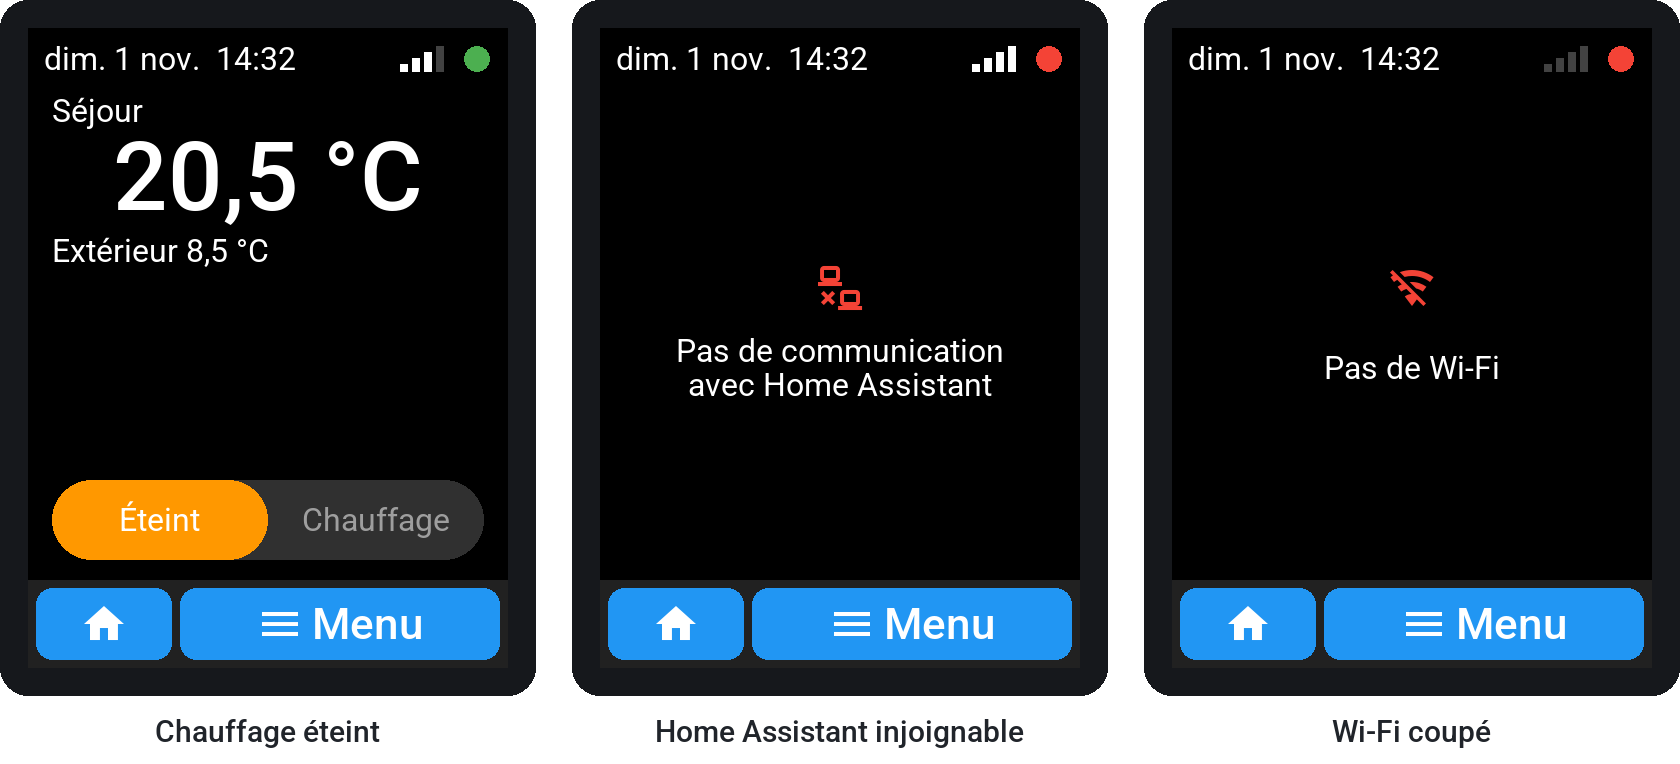
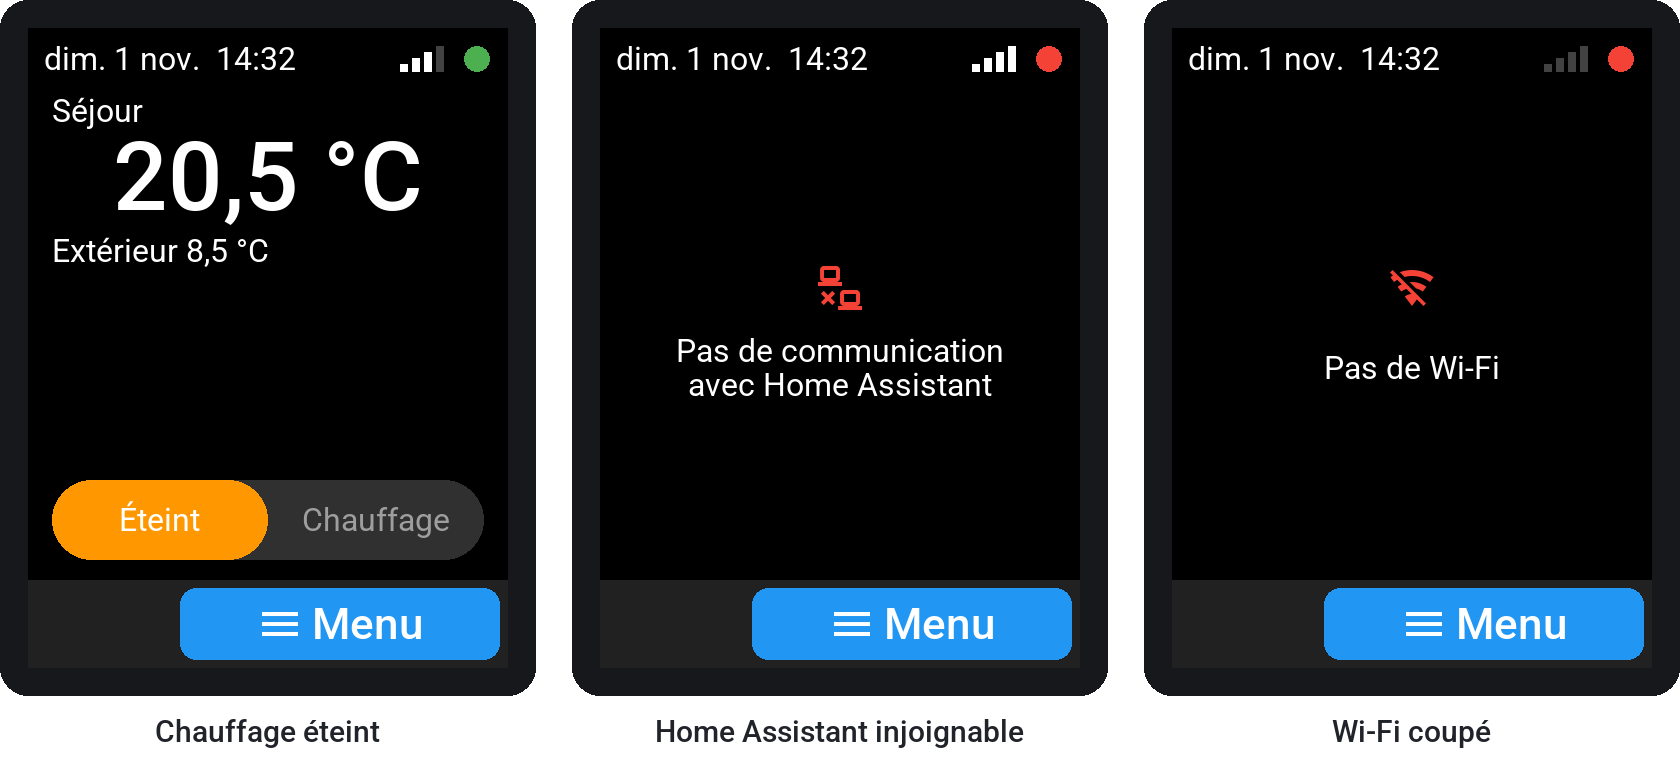
Documentation : page Reglages dans le guide d'utilisation et l'architecture, maquettes Menu, Reglages et barre de navigation a jour

Changed region(s): [[0.681, 0.7526, 0.8048, 0.873], [0.3405, 0.7526, 0.4643, 0.873], [0.0, 0.7526, 0.1238, 0.873]]

diff --git a/tools/generer_images_doc.py b/tools/generer_images_doc.py
@@ -23,7 +23,7 @@ MDI = {
     "meteo": "\U000F0595", "planning": "\U000F00F0", "scenarios": "\U000F0D19", "menu": "\U000F035C",
     "info": "\U000F02FD", "soleil": "\U000F0599", "pluie": "\U000F0597", "nuage": "\U000F0590",
     "canape": "\U000F04B9", "depart": "\U000F0A48", "lune": "\U000F0594", "lumiere_eteinte": "\U000F0E4F",
-    "film": "\U000F0FCE", "reveil": "\U000F0020",
+    "film": "\U000F0FCE", "reveil": "\U000F0020", "reglages": "\U000F0493", "verrou": "\U000F033E",
 }
 
 
@@ -42,17 +42,20 @@ def police(taille, graisse=400):
 class Ecran:
     """Ecran de 240 x 320 du module, coordonnees en pixels du module."""
 
-    def __init__(self, barre=True):
+    def __init__(self, barre=True, maison=True, menu=True):
+        """Barre de navigation : maison masquee sur l'accueil, Menu sur le menu (D025)."""
         self.image = Image.new("RGB", (240 * S, 320 * S), "#000000")
         self.d = ImageDraw.Draw(self.image)
         self.reperes = []
         if barre:
             self.rect(0, 276, 240, 44, "#212121")
-            self.bouton(4, 280, 68, 36, BLEU)
-            self.icone("maison", 38, 298, 24)
-            self.bouton(76, 280, 160, 36, BLEU)
-            self.icone("menu", 126, 298, 24)
-            self.texte(170, 298, "Menu", BLANC, 22, 500, "mm")
+            if maison:
+                self.bouton(4, 280, 68, 36, BLEU)
+                self.icone("maison", 38, 298, 24)
+            if menu:
+                self.bouton(76, 280, 160, 36, BLEU)
+                self.icone("menu", 126, 298, 24)
+                self.texte(170, 298, "Menu", BLANC, 22, 500, "mm")
 
     def rect(self, x, y, l, h, couleur, rayon=0, bord=None, epaisseur=0):
         boite = [x * S, y * S, (x + l) * S - 1, (y + h) * S - 1]
@@ -125,7 +128,7 @@ def glissiere(e, chauffage=True):
 
 
 def accueil():
-    e = Ecran()
+    e = Ecran(maison=False)
     bandeau(e)
     e.texte(12, 32, "Séjour")
     e.texte(120, 46, "20,5 °C", BLANC, 48, 500, "ma")
@@ -142,14 +145,14 @@ def accueil():
     e.texte(200, 196, "+", BLANC, 22, 500, "mm")
     glissiere(e)
     for numero, x, y in [(1, 148, 15), (2, 226, 62), (3, 180, 110), (4, 232, 146), (5, 76, 196),
-                         (6, 120, 246), (7, 38, 276), (8, 214, 276)]:
+                         (6, 120, 246), (7, 214, 276)]:
         e.repere(numero, x, y)
     e.finir("accueil.png")
     return e
 
 
 def accueil_eteint():
-    e = Ecran()
+    e = Ecran(maison=False)
     bandeau(e)
     e.texte(12, 32, "Séjour")
     e.texte(120, 46, "20,5 °C", BLANC, 48, 500, "ma")
@@ -159,7 +162,7 @@ def accueil_eteint():
 
 
 def accueil_hs(wifi):
-    e = Ecran()
+    e = Ecran(maison=False)
     e.texte(8, 6, "dim. 1 nov.  14:32")
     for x, y, h in [(186, 18, 4), (192, 15, 7), (198, 12, 10), (204, 9, 13)]:
         e.rect(x, y, 4, h, BLANC if wifi else INACTIF)
@@ -170,14 +173,61 @@ def accueil_hs(wifi):
 
 
 def menu():
-    e = Ecran()
-    tuiles = [("maison", "Accueil", 8, 8), ("meteo", "Météo", 124, 8), ("planning", "Planning", 8, 96),
-              ("scenarios", "Scénarios", 124, 96), ("info", "À propos", 8, 184)]
+    e = Ecran(menu=False)
+    tuiles = [("meteo", "Météo", 8, 8), ("planning", "Planning", 124, 8), ("scenarios", "Scénarios", 8, 96),
+              ("reglages", "Réglages", 124, 96), ("info", "À propos", 8, 184)]
     for nom, texte, x, y in tuiles:
         e.bouton(x, y, 108, 80)
         e.icone(nom, x + 54, y + 24, 24)
         e.texte(x + 54, y + 58, texte, BLANC, 16, 400, "mm")
     e.finir("menu.png")
+
+
+def interrupteur(e, y, libelle, actif, impose):
+    """Interrupteur de packages/pages/reglages.yaml : arret sur fond sombre borde."""
+    e.texte(12, y + 6, libelle)
+    if actif:
+        e.rect(172, y, 56, 30, "#546E7A" if impose else BLEU, 15)
+    else:
+        e.rect(172, y, 56, 30, GRIS_FONCE, 15, GRIS, 2)
+    e.rect(201 if actif else 175, y + 3, 24, 24, "#BDBDBD" if impose else BLANC, 12)
+    if impose:
+        e.icone("verrou", 152, y + 15, 24, GRIS)
+
+
+def curseur(e, y, libelle, valeur, minimum, impose):
+    """Curseur par pas de 5 et valeur affichee a droite."""
+    e.texte(12, y, libelle)
+    e.texte(228, y, f"{valeur} %", BLANC, 16, 400, "ra")
+    plein = round(196 * (valeur - minimum) / (100 - minimum))
+    couleur = "#546E7A" if impose else BLEU
+    e.rect(22, y + 30, 196, 10, "#123C5E", 5)
+    e.rect(22, y + 30, max(plein, 10), 10, couleur, 5)
+    e.rect(22 + plein - 10, y + 25, 20, 20, couleur, 10)
+    if impose:
+        e.icone("verrou", 162, y + 8, 24, GRIS)
+
+
+def reglages_ecran(alerte=True, impose_alerte=False):
+    e = Ecran()
+    e.texte(120, 8, "Réglages", BLANC, 22, 500, "ma")
+    interrupteur(e, 44, "LED", True, False)
+    curseur(e, 88, "Intensité LED", 20, 0, False)
+    interrupteur(e, 144, "Alerte LED", alerte, impose_alerte)
+    curseur(e, 188, "Intensité écran", 80, 20, False)
+    if impose_alerte:
+        e.icone("verrou", 68, 252, 24, GRIS)
+        e.texte(84, 252, "imposé par HA", GRIS, 16, 400, "lm")
+    return e
+
+
+def reglages():
+    e = reglages_ecran()
+    for numero, x, y in [(1, 140, 59), (2, 140, 96), (3, 140, 159), (4, 150, 196)]:
+        e.repere(numero, x, y)
+    e.finir("reglages.png")
+    cote_a_cote([encadrer(reglages_ecran(alerte=False)), encadrer(reglages_ecran(impose_alerte=True))],
+                "reglages_etats.png", ["Alerte LED arrêtée", "Alerte LED imposée par HA"])
 
 
 def meteo():
@@ -320,6 +370,7 @@ def main():
                  encadrer(scenarios_ecran("Pas de réponse de HA", ORANGE))],
                 "scenarios_etats.png", ["Envoi", "Accepté par HA", "Sans réponse"])
     apropos()
+    reglages()
     schema_scenario()
     formulaire()
     led()

diff --git a/tools/generer_schemas_architecture.py b/tools/generer_schemas_architecture.py
@@ -230,11 +230,11 @@ def veille():
 def lumiere():
     s = S(1100, 650)
     s.boite(30, 240, 220, 130, "LDR", "tension moyenne\nsur 5 s", JAUNE)
-    s.boite(330, 240, 270, 130, "ldr_obscurite", "(V - 0,09) / (0,20 - 0,09)\nbornée de 0 à 1, 10 s\nsans mesure : 0", BLEU, B_BLEU)
+    s.boite(330, 240, 270, 130, "ldr_obscurite", "(V - 0,09) / (0,20 - 0,09)\nbornée de 0 à 1, 2 s\nsans mesure : 0", BLEU, B_BLEU)
     s.fleche([(250, 305), (330, 305)])
-    s.boite(690, 60, 380, 170, "Rétroéclairage", "de 1,0 à 0,40 (gamma : environ 8 %)\nchange à partir de 5 points d'écart\ntransition de 2 s\nécran éteint : appliqué au réveil", ORANGE, B_ORANGE)
+    s.boite(690, 60, 380, 170, "Rétroéclairage", "de 1,0 à 0,40 × « Intensité écran »,\njamais sous 0,30 (D031)\nà partir de 5 points d'écart, en 1 s\nécran éteint : appliqué au réveil", ORANGE, B_ORANGE)
     s.fleche([(600, 280), (690, 170)], B_ORANGE)
-    s.boite(690, 280, 380, 150, "Plafond de la LED", "de 0,25 à 0,05\nrespiration de 6 s\nplancher 20 % du plafond", VIOLET, B_VIOLET)
+    s.boite(690, 280, 380, 150, "Plafond de la LED", "de 0,25 à 0,05 × « Intensité LED »\nrespiration de 6 s\néteinte au creux", VIOLET, B_VIOLET)
     s.fleche([(600, 320), (690, 350)], B_VIOLET)
     s.boite(690, 470, 380, 130, "LED en alerte", "rouge à pleine intensité, 500 ms\nne dépend pas de la LDR", ROUGE, B_ROUGE)
     s.boite(330, 470, 270, 130, "accueil_rafraichir", "couleur du préréglage,\nalerte si valeur douteuse", GRIS)

diff --git a/docs/UTILISATION.md b/docs/UTILISATION.md
@@ -10,7 +10,10 @@ peut légèrement différer.*
 ## L'essentiel
 
 - La barre du bas est présente sur toutes les pages : **la maison** ramène à
-  l'accueil (elle n'apparaît pas sur l'accueil), **Menu** ouvre la liste des pages.
+  l'accueil (elle n'apparaît pas sur l'accueil), **Menu** ouvre la liste des pages
+  (il n'apparaît pas sur le Menu).
+- La LED et la luminosité de l'écran se règlent depuis le panneau lui-même :
+  **Menu › Réglages**.
 - Après **1 minute sans toucher**, le panneau revient à l'accueil et l'écran
   s'éteint.
 - Quand l'écran est éteint, **le premier toucher ne fait que le rallumer** : il ne
@@ -30,8 +33,7 @@ peut légèrement différer.*
 | 4 | Préréglages : Manuel, Hors-gel, Éco, Confort, Boost | Touchez une icône pour changer. Le préréglage actif est entouré de blanc. |
 | 5 | Consigne, avec **-** et **+** | Chaque toucher change de 0,5 °C. L'envoi part 2 secondes après le dernier toucher. |
 | 6 | Glissière Éteint / Chauffage | Touchez le côté inactif, ou faites glisser la pastille. |
-| 7 | Maison | Revient à l'accueil. |
-| 8 | Menu | Ouvre la liste des pages. |
+| 7 | Menu | Ouvre la liste des pages. La maison n'apparaît pas ici : vous êtes déjà sur l'accueil. |
 
 **Après une commande**, la valeur demandée reste en attente jusqu'à la confirmation
 de Home Assistant. Sans confirmation au bout de 10 secondes, l'écran revient à la
@@ -53,7 +55,8 @@ pastille de la glissière devient grise.
 
 ![Page Menu](images/menu.png)
 
-Touchez une tuile pour ouvrir la page correspondante.
+Touchez une tuile pour ouvrir la page correspondante : Météo, Planning, Scénarios,
+Réglages ou À propos. Pour revenir à l'accueil, touchez la maison en bas.
 
 ## Météo
 
@@ -104,10 +107,42 @@ Un bouton marqué **Indisponible** ne peut pas être touché.
 Version du logiciel, connexion à Home Assistant et mémoire. Ces informations sont
 utiles en cas de dépannage.
 
+## Réglages
+
+Ouvrez **Menu › Réglages** pour régler la LED et l'écran de ce panneau, par exemple
+pour qu'il soit discret dans une chambre. Aucun code n'est demandé, et la page
+fonctionne même sans Home Assistant ni Wi-Fi.
+
+![Page Réglages](images/reglages.png)
+
+| Repère | Réglage | Utilisation |
+|---|---|---|
+| 1 | LED | Interrupteur. Arrêté : la LED ne montre plus l'état du chauffage. |
+| 2 | Intensité LED | Faites glisser, par pas de 5 %. 100 % est le maximum prévu, déjà discret ; 20 % par défaut. |
+| 3 | Alerte LED | Interrupteur. Arrêté : plus de rouge clignotant en cas d'anomalie ; seul l'écran la montre. |
+| 4 | Intensité écran | Faites glisser, de 20 à 100 %. L'écran continue de baisser tout seul dans le noir, et ne devient jamais illisible. |
+
+- **Un curseur s'applique quand vous levez le doigt** : la valeur affichée suit le
+  doigt, la LED ou l'écran change au relâchement.
+- **Les réglages sont gardés** après une coupure de courant.
+- **Ce sont les mêmes réglages** que sur la page de l'appareil dans Home Assistant :
+  un changement d'un côté apparaît aussitôt de l'autre.
+
+![Interrupteur arrêté et réglage imposé](images/reglages_etats.png)
+
+**Interrupteur arrêté :** fond sombre bordé de gris, bouton blanc à gauche. En marche :
+fond bleu, bouton à droite.
+
+**Cadenas :** ce réglage est imposé par Home Assistant (automatisation du module) ;
+il ne réagit pas au toucher, et « imposé par HA » est rappelé en bas de la page. Pour
+le régler depuis le panneau, mettez-le sur « Ne pas imposer » dans l'automatisation
+(voir [la configuration](CONFIGURATION.md)).
+
 ## Écran et LED
 
 **Luminosité de l'écran :** elle baisse dans une pièce sombre et remonte quand la
-pièce est éclairée. Le changement est progressif et peut prendre environ une minute.
+pièce est éclairée, en quelques secondes. Le réglage « Intensité écran » (page
+Réglages) la diminue en plus, partout.
 
 **LED de façade :** elle montre l'état du chauffage même écran éteint.
 
@@ -122,8 +157,8 @@ pièce est éclairée. Le changement est progressif et peut prendre environ une 
 Boost est un rouge qui respire doucement, l'anomalie un rouge qui clignote franchement.
 
 La respiration s'éteint un instant au creux de chaque cycle. Selon les réglages du
-module (une chambre par exemple), la LED peut être éteinte en permanence et l'alerte
-désactivée : seul l'écran montre alors une anomalie.
+module (page Réglages, une chambre par exemple), la LED peut être éteinte en
+permanence et l'alerte désactivée : seul l'écran montre alors une anomalie.
 
 ## Message d'accueil
 

diff --git a/docs/ARCHITECTURE.md b/docs/ARCHITECTURE.md
@@ -55,8 +55,8 @@ le tactile et le réseau (G1). Ces lambdas restent du C++, inséré tel quel dan
 | `hapanel.yaml` | 28 | Production : inclusions et substitutions seulement |
 | `hapanel_banc.yaml` | 33 | Banc : production, plus mémoire mesurée, journaux DEBUG et dossier de compilation propre |
 | `packages/base.yaml` | 61 | Nœud, ESP32, Wi-Fi, API, OTA, journaux, identité de build |
-| `packages/hardware.yaml` | 112 | Broches, bus, écran, tactile, sorties PWM, LDR (G2) |
-| `packages/lvgl.yaml` | 181 | Polices communes, À propos, barre de navigation, suivi de la connexion |
+| `packages/hardware.yaml` | 114 | Broches, bus, écran, tactile, sorties PWM, LDR (G2) |
+| `packages/lvgl.yaml` | 182 | Polices communes, À propos, barre de navigation, suivi de la connexion |
 | `packages/liaison_ha.yaml` | 489 | Action `maj_valeur`, valeurs reçues, effacement, péremption |
 | `packages/led_veille.yaml` | 281 | Veille, retour à l'accueil, LED, rétroéclairage, réglages du module (D027, D031) |
 | `packages/message_accueil.yaml` | 157 | Action `message_accueil`, message plein écran, entité « Message d'accueil » |
@@ -64,8 +64,8 @@ le tactile et le réseau (G1). Ces lambdas restent du C++, inséré tel quel dan
 | `packages/pages/meteo.yaml` | 195 | Conditions et prévisions |
 | `packages/pages/planning.yaml` | 373 | Résumé et frises |
 | `packages/pages/scenarios.yaml` | 366 | Boutons et lancement |
-| `packages/pages/menu.yaml` | 144 | Tuiles de navigation |
-| `packages/pages/reglages.yaml` | 153 | Réglages de la LED et de l'écran, synchronisés avec HA (D031) |
+| `packages/pages/menu.yaml` | 123 | Tuiles de navigation |
+| `packages/pages/reglages.yaml` | 217 | Réglages de la LED et de l'écran, synchronisés avec HA, cadenas si imposés (D031) |
 | `secrets.yaml` | | Wi-Fi et clé d'API, hors de Git (G9) |
 
 **Pour lire le projet :** `hapanel.yaml`, puis `liaison_ha.yaml`, puis `scenarios.yaml`, qui est la
@@ -547,6 +547,17 @@ LED » et « Alerte LED », gardées en flash. Elles se règlent sur la page de 
 ou sont imposées par le blueprint par les clés `led_*`. `maj_valeur` les applique aux mêmes
 entités, que HA affiche aussitôt, et seulement si la valeur change : pas d'écriture en flash
 toutes les 5 minutes (G3).
+
+**Réglages depuis le module (D031) :** la page `page_reglages` (`packages/pages/reglages.yaml`,
+tuile du Menu) agit sur ces mêmes entités et sur une quatrième, « Intensité écran », qui
+multiplie la luminosité calculée par `retro_cible_calculer` sans descendre sous
+`retro_plancher`. Une seule valeur par réglage, donc pas de synchronisation à écrire : la page
+écrit l'entité (au relâchement pour un curseur, une seule écriture en flash), et chaque
+`on_value` d'entité appelle `reglages_rafraichir`, qui recopie les quatre valeurs sur la page
+sans émettre d'événement LVGL, donc sans boucle. Le blueprint envoie chaque clé `led_*` et
+`ecran_intensite`, avec `libre` quand il n'impose rien ; une valeur imposée met à vrai le
+drapeau `reglage_impose_*` correspondant, et la page affiche un cadenas et désactive la
+commande.
 
 **Message d'accueil (D028) :** le blueprint de la maison `message_accueil.yaml` choisit le
 texte et la ligne de météo, puis appelle `message_accueil` sur chaque panneau dont l'entité
